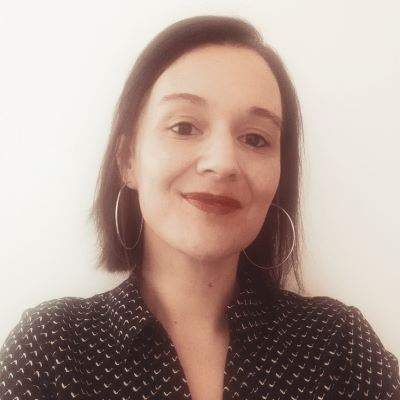
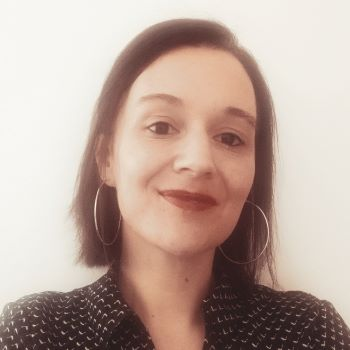
redimension image profil et stop du slide auto des carousels

diff --git a/script.js b/script.js
@@ -2,7 +2,7 @@
 
 $(function () {
 
-    $(".navbar a, footer a").on("click", function (event) {
+    $(".navbar a").on("click", function (event) {
 
         event.preventDefault();
         let hash = this.hash;
@@ -58,8 +58,7 @@ let topNoGood = document.querySelector(".top-no-good");
 
 let topGoodItems = ["Je suis persévérante : si problème il y a, solution je cherche.", "Je sais m'appuyer sur une équipe : si solution je ne trouve pas, aide je demande.", "Je suis une bonne partenaire de travail : communicante, sociable, bienveillante.", "(En réalité j'achète\n" +
 "mes collègues avec des pâtisseries. C'est pas joli, joli, mais ça marche.)", "Je sais aussi travailler seule, en parfaite autonomie. Pas besoin d'être derrière moi pour me\n" +
-"motiver.", "J'adore apprendre. Un nouveau langage ? Une nouvelle techno ? Je mets les mains dans le cambouis avec\n" +
-"bonheur.", "Je suis ouverte aux critiques constructives. Tout ce qui peut m'aider à progresser est bienvenu.", "J'ai de bonnes capacités rédactionnelles et si je peux les mettre à profit pour x raison, je le ferai\n" +
+"motiver.", "J'adore apprendre. Un nouveau langage ? Une nouvelle techno ? Je m'y attelle avec bonheur.", "Je suis ouverte aux critiques constructives. Tout ce qui peut m'aider à progresser est bienvenu.", "J'ai de bonnes capacités rédactionnelles et si je peux les mettre à profit pour x raison, je le ferai\n" +
 "toujours avec plaisir.", "J'ai une vraie conscience professionnelle. Le travail bien fait, c'est vraiment ma ligne de conduite."];
 
 let topNoGoodItems = ["J'ai du mal à évaluer ce que je sais faire : \"Tu te mets combien en HTML ? - Euh... 10 ? C'est bien 10 ? - Sur combien ? - Je sais pas, ça va jusqu'à combien le HTML ?\" ...", "Découle du 1 : j'ai assez peu confiance en mes capacités.",
@@ -75,7 +74,7 @@ let showTopGood = () => {
     let carousel = document.createElement("div");
     carousel.classList.add("carousel", "slide", "text-center", "row");
     carousel.setAttribute("id", "myGoodCarousel");
-    carousel.setAttribute("data-ride", "carousel");
+    carousel.setAttribute("data-interval", "false");
     topGood.appendChild(carousel);
 
     let carouselContent = document.createElement("div");
@@ -150,7 +149,7 @@ let showTopNoGood = () => {
     let carousel = document.createElement("div");
     carousel.classList.add("carousel", "slide", "text-center");
     carousel.setAttribute("id", "myNogoodCarousel");
-    carousel.setAttribute("data-ride", "carousel");
+    carousel.setAttribute("data-interval", "false");
     topNoGood.appendChild(carousel);
 
     let carouselContent = document.createElement("div");

diff --git a/style.css b/style.css
@@ -429,7 +429,6 @@ section .heading {
 }
 
 
-
 /******************** MEDIA QUERIES ********************/
 
 /*************** Small Devices ***************/
@@ -515,11 +514,14 @@ section .heading {
     .carousel-control-next-icon {
         margin-right: 10px;
     }
+
+    .carousel-indicators li {
+        width: 13px;
+        height: 13px;
+    }
 }
 
-
 /*************** Large Devices ***************/
-
 @media screen and (min-width: 992px) {
 
     .nav-link {
@@ -575,8 +577,8 @@ section .heading {
         font-size: 1.1em;
     }
 }
-/*************** Extra Large Devices ***************/
 
+/*************** Extra Large Devices ***************/
 @media screen and (min-width: 1200px) {
 
     .nav-item {
@@ -665,7 +667,6 @@ section .heading {
 
 
 /*************** Extra Extra Large Devices ***************/
-
 @media screen and (min-width: 1400px) {
 
     #myNavbar {
@@ -695,7 +696,6 @@ section .heading {
 }
 
 /*************** Extra Extra Large Devices ***************/
-
 @media screen and (min-width: 1920px) {
 
     #education {
